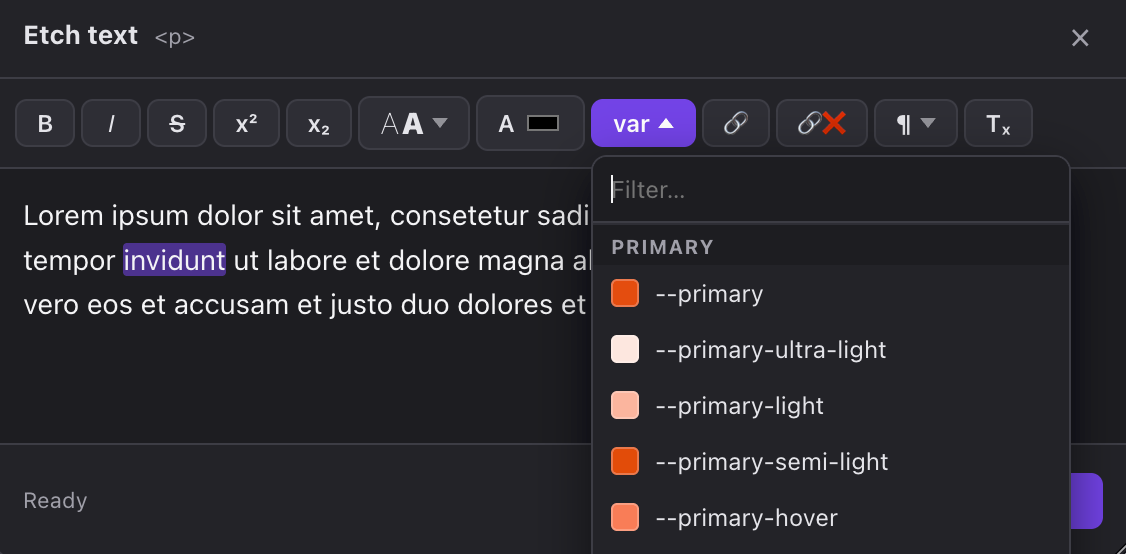
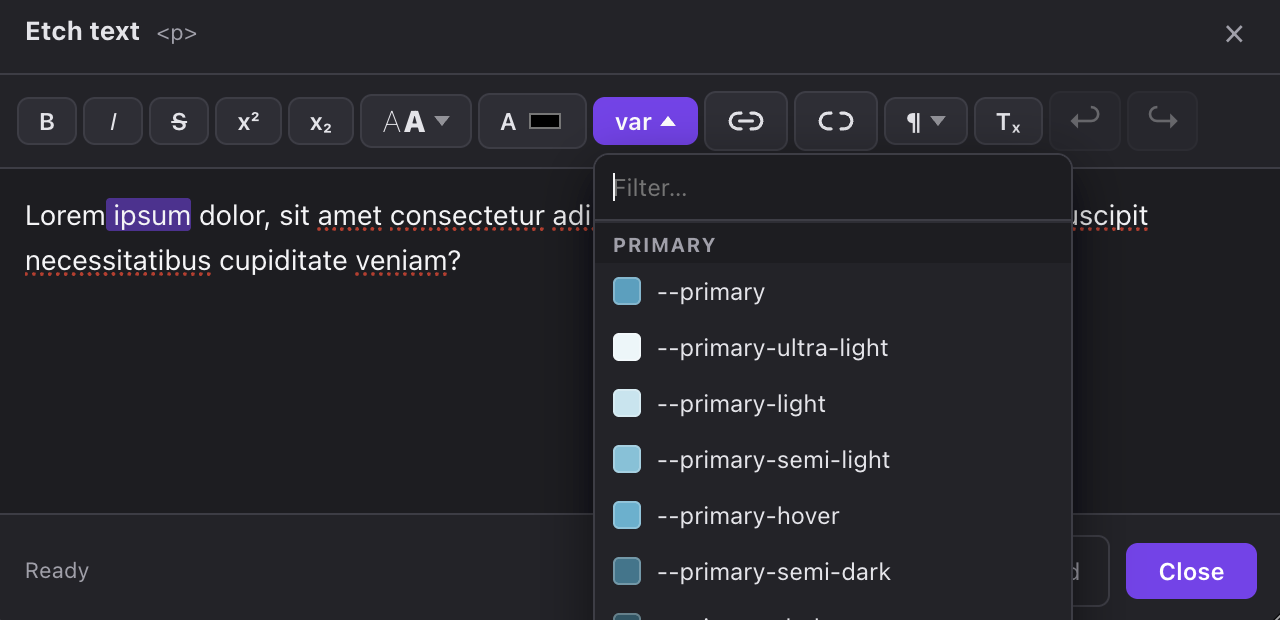
1.0.0: first stable release

diff --git a/editor.js b/editor.js
@@ -1,5 +1,5 @@
 /**
- * Etch Text Editor v0.22.3
+ * Etch Text Editor v1.0.0
  * ------------------------------------
  * Graphical text-editing popup for the Etch builder:
  *  - Gutenberg passthrough blocks (core/paragraph, core/heading, …):
@@ -19,7 +19,7 @@
 (() => {
 	"use strict";
 
-	const VERSION = "0.22.3";
+	const VERSION = "1.0.0";
 	const TIMEOUT_MS = 15000;
 	const POLL_MS = 300;
 	const PREVIEW_MS = 1000;
@@ -611,7 +611,7 @@
 			return;
 		}
 		window.__eppeActive = VERSION;
-		document.querySelectorAll(".eppe-panel, .eppe-launcher, #eppe-styles").forEach((n) => n.remove());
+		document.querySelectorAll(".eppe-panel, .eppe-launcher, .eppe-tooltip, #eppe-styles").forEach((n) => n.remove());
 
 		injectTopStyles();
 
@@ -1727,29 +1727,29 @@
 					<button class="eppe-close" title="Close">&times;</button>
 				</div>
 				<div class="eppe-toolbar">
-					<button class="eppe-btn" data-cmd="bold" title="Bold (strong)">B</button>
-					<button class="eppe-btn eppe-i" data-cmd="italic" title="Italic (em)">I</button>
-					<button class="eppe-btn" data-cmd="strikeThrough" title="Strikethrough" style="text-decoration:line-through;">S</button>
-					<button class="eppe-btn" data-cmd="superscript" title="Superscript">x&sup2;</button>
-					<button class="eppe-btn" data-cmd="subscript" title="Subscript">x&#8322;</button>
+					<button class="eppe-btn" data-cmd="bold" title="Bold — make selected text bold">B</button>
+					<button class="eppe-btn eppe-i" data-cmd="italic" title="Italic — slant selected text">I</button>
+					<button class="eppe-btn" data-cmd="strikeThrough" title="Strikethrough — cross out selected text" style="text-decoration:line-through;">S</button>
+					<button class="eppe-btn" data-cmd="superscript" title="Superscript — raise selected text">x&sup2;</button>
+					<button class="eppe-btn" data-cmd="subscript" title="Subscript — lower selected text">x&#8322;</button>
 					<div class="eppe-varwrap" style="position:relative;display:inline-flex;">
-						<button class="eppe-btn eppe-wtbtn eppe-hasmenu" title="Font weight" aria-label="Font weight"><span class="eppe-wt-a eppe-wt-thin">A</span><span class="eppe-wt-a eppe-wt-bold">A</span><svg class="eppe-caret" width="8" height="5" viewBox="0 0 8 5" fill="currentColor" aria-hidden="true"><path d="M0 0 L4 5 L8 0 Z"/></svg></button>
+						<button class="eppe-btn eppe-wtbtn eppe-hasmenu" title="Font weight — choose the weight of selected text" aria-label="Font weight"><span class="eppe-wt-a eppe-wt-thin">A</span><span class="eppe-wt-a eppe-wt-bold">A</span><svg class="eppe-caret" width="8" height="5" viewBox="0 0 8 5" fill="currentColor" aria-hidden="true"><path d="M0 0 L4 5 L8 0 Z"/></svg></button>
 						<div class="eppe-wt-results"></div>
 					</div>
-					<label class="eppe-btn eppe-colorlbl" title="Text color" style="display:inline-flex;align-items:center;gap:4px;cursor:pointer;">A<input type="color" class="eppe-color" value="#000000" style="width:20px;height:16px;padding:0;border:none;background:none;cursor:pointer;" /></label>
+					<label class="eppe-btn eppe-colorlbl" title="Text color — choose a color for selected text" style="display:inline-flex;align-items:center;gap:4px;cursor:pointer;">A<input type="color" class="eppe-color" value="#000000" aria-label="Text color" style="width:20px;height:16px;padding:0;border:none;background:none;cursor:pointer;" /></label>
 					<div class="eppe-varwrap" style="position:relative;display:inline-flex;">
-						<button class="eppe-btn eppe-varbtn eppe-hasmenu" title="Theme color variable">var<svg class="eppe-caret" width="8" height="5" viewBox="0 0 8 5" fill="currentColor" aria-hidden="true"><path d="M0 0 L4 5 L8 0 Z"/></svg></button>
+						<button class="eppe-btn eppe-varbtn eppe-hasmenu" title="Theme color — apply a design-system token (e.g. ACSS)">var<svg class="eppe-caret" width="8" height="5" viewBox="0 0 8 5" fill="currentColor" aria-hidden="true"><path d="M0 0 L4 5 L8 0 Z"/></svg></button>
 						<div class="eppe-var-results"></div>
 					</div>
-					<button class="eppe-btn eppe-linkbtn eppe-icon-btn" title="Add / edit link" aria-label="Add / edit link">${LINK_ICON_SVG}</button>
-					<button class="eppe-btn eppe-icon-btn" data-cmd="unlink" title="Remove link" aria-label="Remove link">${UNLINK_ICON_SVG}</button>
+					<button class="eppe-btn eppe-linkbtn eppe-icon-btn" title="Link — add or edit a link" aria-label="Add / edit link">${LINK_ICON_SVG}</button>
+					<button class="eppe-btn eppe-icon-btn" data-cmd="unlink" title="Remove link — remove the link from selected text" aria-label="Remove link">${UNLINK_ICON_SVG}</button>
 					<div class="eppe-varwrap" style="position:relative;display:inline-flex;">
-						<button class="eppe-btn eppe-charbtn eppe-hasmenu" title="Insert: line break, soft hyphen, non-breaking space">&para;<svg class="eppe-caret" width="8" height="5" viewBox="0 0 8 5" fill="currentColor" aria-hidden="true"><path d="M0 0 L4 5 L8 0 Z"/></svg></button>
+						<button class="eppe-btn eppe-charbtn eppe-hasmenu" title="Insert — line break, soft hyphen or non-breaking space">&para;<svg class="eppe-caret" width="8" height="5" viewBox="0 0 8 5" fill="currentColor" aria-hidden="true"><path d="M0 0 L4 5 L8 0 Z"/></svg></button>
 						<div class="eppe-char-results"></div>
 					</div>
-					<button class="eppe-btn eppe-clear" title="Clear formatting">T&#8339;</button>
-					<button class="eppe-btn eppe-history" data-history="undo" title="Undo (Cmd/Ctrl+Z)" aria-label="Undo" disabled>&#8617;</button>
-					<button class="eppe-btn eppe-history" data-history="redo" title="Redo (Cmd/Ctrl+Shift+Z)" aria-label="Redo" disabled>&#8618;</button>
+					<button class="eppe-btn eppe-clear" title="Clear formatting — remove formatting from selected text">T&#8339;</button>
+					<button class="eppe-btn eppe-history" data-history="undo" title="Undo — revert the last change (Cmd/Ctrl+Z)" aria-label="Undo" disabled>&#8617;</button>
+					<button class="eppe-btn eppe-history" data-history="redo" title="Redo — repeat an undone change (Cmd/Ctrl+Shift+Z)" aria-label="Redo" disabled>&#8618;</button>
 				</div>
 				<div class="eppe-linkrow" style="position:relative;">
 					<div class="eppe-link-primary">
@@ -1786,6 +1786,55 @@
 				</div>
 			`;
 			document.body.appendChild(panel);
+
+			/* Replace browser-native title hints with consistent, readable toolbar tooltips. */
+			function installToolbarTooltips() {
+				const tooltip = document.createElement("div");
+				tooltip.className = "eppe-tooltip";
+				tooltip.setAttribute("role", "tooltip");
+				tooltip.hidden = true;
+				document.body.appendChild(tooltip);
+				let timer = null;
+				let active = null;
+
+				const hide = () => {
+					clearTimeout(timer);
+					timer = null;
+					active = null;
+					tooltip.hidden = true;
+					tooltip.classList.remove("open");
+				};
+				const show = (target) => {
+					if (active !== target) return;
+					tooltip.textContent = target.dataset.eppeTooltip || "";
+					tooltip.hidden = false;
+					tooltip.classList.add("open");
+					const r = target.getBoundingClientRect();
+					const tr = tooltip.getBoundingClientRect();
+					let top = r.bottom + 8;
+					if (top + tr.height > window.innerHeight - 8) top = r.top - tr.height - 8;
+					let left = r.left + (r.width - tr.width) / 2;
+					left = Math.max(8, Math.min(left, window.innerWidth - tr.width - 8));
+					tooltip.style.left = Math.round(left) + "px";
+					tooltip.style.top = Math.round(Math.max(8, top)) + "px";
+				};
+				const schedule = (target) => {
+					if (!target.dataset.eppeTooltip) return;
+					hide();
+					active = target;
+					timer = setTimeout(() => show(target), 360);
+				};
+
+				panel.querySelectorAll(".eppe-toolbar [title]").forEach((target) => {
+					target.dataset.eppeTooltip = target.getAttribute("title");
+					target.removeAttribute("title");
+					target.addEventListener("pointerenter", () => schedule(target));
+					target.addEventListener("pointerleave", hide);
+					target.addEventListener("focus", () => schedule(target));
+					target.addEventListener("blur", hide);
+				});
+			}
+			installToolbarTooltips();
 
 			const $ = (sel) => panel.querySelector(sel);
 			const editor = $(".eppe-editor");
@@ -2814,6 +2863,17 @@
 			cursor: pointer; box-shadow: 0 4px 16px rgba(0,0,0,.35);
 		}
 		.eppe-launcher:hover { background: #6d28d9; }
+		.eppe-tooltip {
+			position: fixed; z-index: 2147483647; max-width: 250px;
+			padding: 7px 9px; background: #111116; color: #f4f4f6;
+			border: 1px solid #4a4a58; border-radius: 6px;
+			box-shadow: 0 5px 18px rgba(0,0,0,.5);
+			font: 11px/1.35 system-ui, sans-serif; text-align: center;
+			pointer-events: none; opacity: 0; transform: translateY(-2px);
+			transition: opacity .12s ease, transform .12s ease;
+		}
+		.eppe-tooltip[hidden] { display: none; }
+		.eppe-tooltip.open { opacity: 1; transform: translateY(0); }
 		.eppe-panel {
 			position: fixed; right: 20px; bottom: 64px; z-index: 1000000;
 			width: 640px; max-width: calc(100vw - 40px);

diff --git a/etch-text-editor.php b/etch-text-editor.php
@@ -2,7 +2,7 @@
 /**
  * Plugin Name:       Etch Text Editor
  * Description:       Edit text blocks directly in the Etch builder – Gutenberg blocks (core/paragraph, core/heading, …) AND Etch text elements – including inline formatting (link, bold, italic, font-weight) and a canvas preview for Gutenberg content. The native two-way sync is preserved because Gutenberg blocks remain core blocks.
- * Version:           0.22.3
+ * Version:           1.0.0
  * Author:            Mario Peischl
  * Requires at least: 6.0
  * Requires PHP:      7.4
@@ -25,7 +25,7 @@ function eppe_enqueue() {
 		'etch-text-editor',
 		plugin_dir_url( __FILE__ ) . 'editor.js',
 		array(),
-		'0.22.3',
+		'1.0.0',
 		true
 	);
 }

diff --git a/README.md b/README.md
@@ -28,6 +28,7 @@ Out of the box, Etch fully round-trips its own elements to Gutenberg, but text c
 - **Paste as plain text**: pasted content from Word/Pages/websites is stripped of all formatting.
 - **Clean markup**: multiple inline styles on the same selection are merged into a single `<span>`; empty leftovers are removed; literal `<br>` becomes a real line break.
 - **Resizable, draggable popup**: drag the header to move it, the bottom-right corner to resize; it opens next to the text you're editing.
+- **Toolbar tooltips**: hover over a toolbar button to see what it does; the same hints are available with keyboard focus.
 - **Auto-save**: closing saves — via the X, the Close button or a click outside (also `Cmd/Ctrl+Enter`). Discarding is explicit: the **Discard** button or `Esc`.
 - **Undo/redo and save safety**: undo or redo local edits with the toolbar or keyboard shortcuts; external changes are detected before overwriting and save errors leave the editor open for retry.
 - **Sync-safe**: Gutenberg blocks stay core blocks, so Etch ⇄ Gutenberg two-way sync is preserved. Writes go through `etch.blocks.replace()` + `etch.saveAsync()`.

diff --git a/CHANGELOG.md b/CHANGELOG.md
@@ -2,6 +2,20 @@
 
 All notable changes to this project.
 
+## 1.0.0
+- First stable release of Etch Text Editor.
+- Includes the complete popup editing workflow, inline formatting, ACSS/design-system color tokens, link editing, undo/redo, conflict-safe saving and explanatory toolbar tooltips.
+- Updated the README screenshot to show the current color-token workflow.
+
+## 0.22.6
+- Changed: the color-token tooltip now describes design-system tokens generally and gives ACSS as an example.
+
+## 0.22.5
+- Changed: the color-token tooltip now refers explicitly to **ACSS** instead of a generic design-system token.
+
+## 0.22.4
+- New: toolbar buttons now show consistent explanatory tooltips on hover and keyboard focus.
+
 ## 0.22.3
 - Changed: link editing is now compact by default; URL, **Options**, **Apply** and **Cancel** stay visible, while title, target and `rel` appear on demand. The default popup width is reduced to 640px.
 
